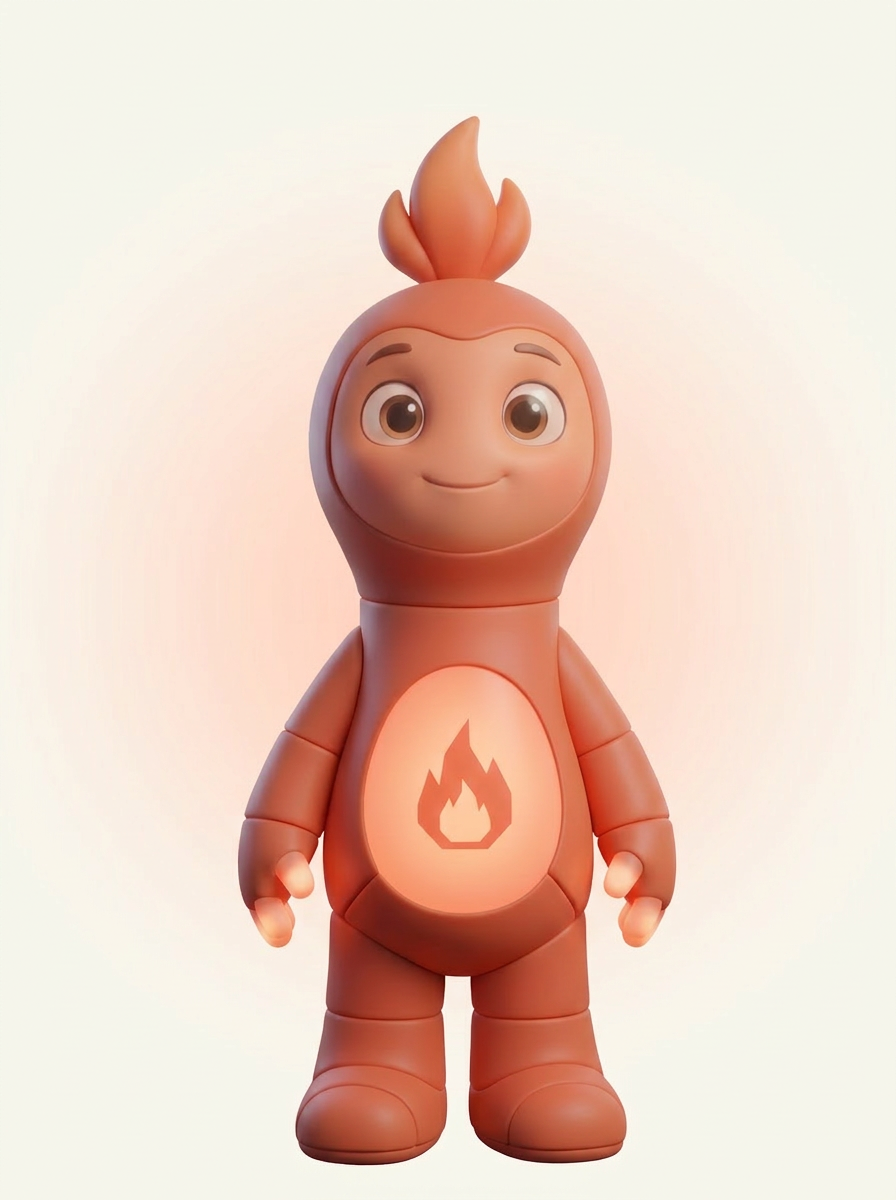
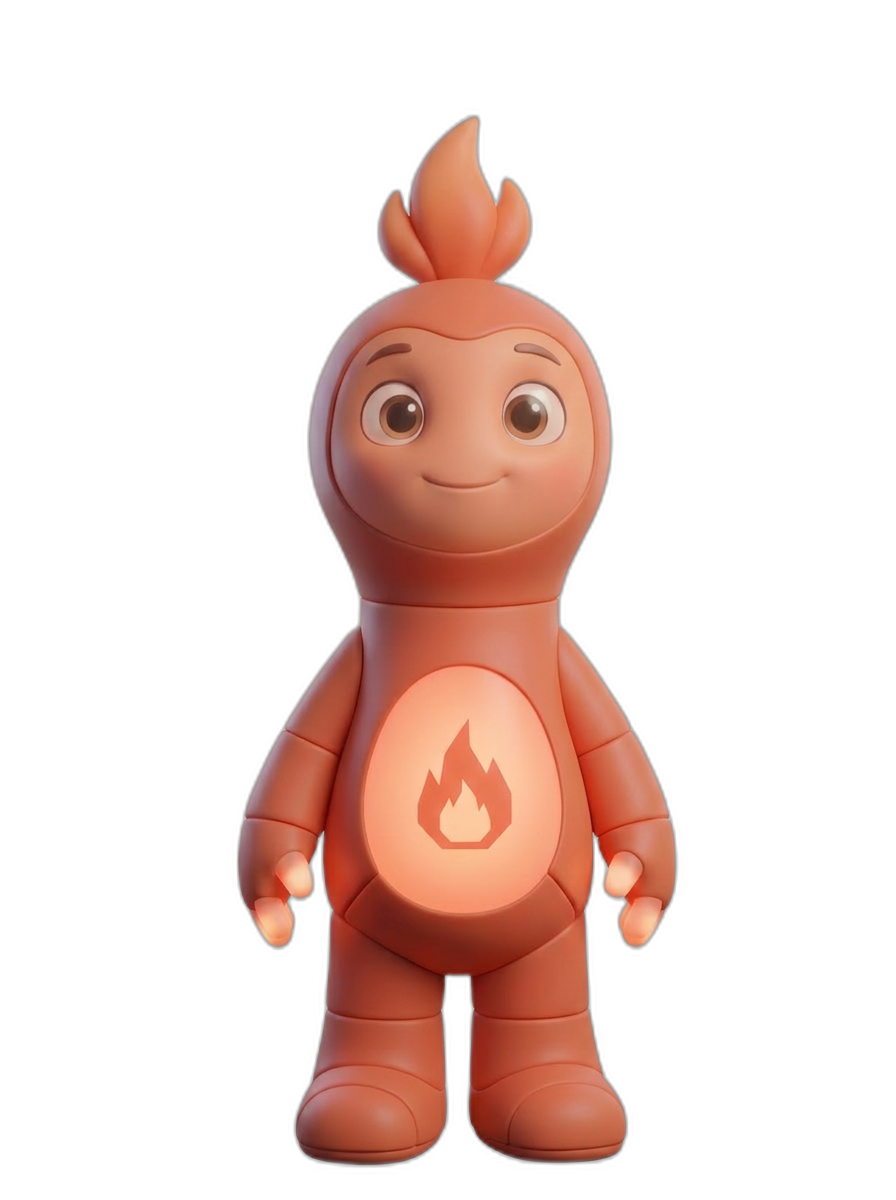
Polish landing page: equal cards, clean characters, scroll reset
- Force equal height on the 4 World section cards using flex/h-full
  so they stay aligned regardless of tagline length
- Remove baked-in backgrounds from all character images (luno, lumi,
  lolo, loti and their home/stories/journeys/family variants)
  using rembg, with manual remove.bg fallbacks for lumi and loti
  where the AI couldn't separate same-color foregrounds
- Add ScrollToTop component that scrolls window to top on every
  route change, fixing landing page navigation preserving old scroll
  position when jumping between pages

diff --git a/src/components/landing/home/WorldSection.tsx b/src/components/landing/home/WorldSection.tsx
@@ -58,12 +58,12 @@ export default function WorldSection() {
           </div>
         </AnimatedSection>
 
-        <div className="grid grid-cols-1 sm:grid-cols-2 lg:grid-cols-4 gap-6 mt-12">
+        <div className="grid grid-cols-1 sm:grid-cols-2 lg:grid-cols-4 gap-6 mt-12 items-stretch">
           {islands.map((island, i) => (
-            <AnimatedSection key={island.title} delay={i * 0.1}>
-              <Link to={island.link} className="block group">
-                <div className={`bg-card rounded-2xl overflow-hidden border border-border ${island.accent} border-t-[3px] shadow-warm hover:shadow-warm-lg transition-all duration-300 hover:-translate-y-1`}>
-                  <div className="aspect-[16/10] overflow-hidden">
+            <AnimatedSection key={island.title} delay={i * 0.1} className="h-full">
+              <Link to={island.link} className="block group h-full">
+                <div className={`bg-card rounded-2xl overflow-hidden border border-border ${island.accent} border-t-[3px] shadow-warm hover:shadow-warm-lg transition-all duration-300 hover:-translate-y-1 h-full flex flex-col`}>
+                  <div className="aspect-[16/10] overflow-hidden flex-shrink-0">
                     <img
                       src={island.img}
                       alt={island.title}
@@ -71,7 +71,7 @@ export default function WorldSection() {
                       loading="lazy"
                     />
                   </div>
-                  <div className="p-5">
+                  <div className="p-5 flex-1 flex flex-col">
                     <h3 className="font-heading text-lg text-foreground mb-1">{island.title}</h3>
                     <p className="font-body text-sm font-medium text-muted-foreground mb-1">{island.subtitle}</p>
                     <p className="font-body text-sm text-muted-foreground leading-relaxed">{island.tagline}</p>

diff --git a/src/App.tsx b/src/App.tsx
@@ -34,6 +34,7 @@ import { NotFoundPage } from '@/pages/NotFound';
 
 // Landing pages (lazy-loaded)
 import LandingLayout from '@/components/landing/LandingLayout';
+import ScrollToTop from '@/components/landing/ScrollToTop';
 const LandingHomePage = lazy(() => import('@/pages/landing/HomePage'));
 const LandingFeaturesPage = lazy(() => import('@/pages/landing/FeaturesPage'));
 const LandingForParentsPage = lazy(() => import('@/pages/landing/ForParentsPage'));
@@ -98,6 +99,7 @@ export default function App() {
         <ChildProvider>
           <ChatProvider>
             <BrowserRouter>
+              <ScrollToTop />
               <Routes>
                 {/* Landing site pages */}
                 <Route

diff --git a/src/components/landing/ScrollToTop.tsx b/src/components/landing/ScrollToTop.tsx
@@ -1,0 +1,17 @@
+/**
+ * ScrollToTop — scrolls window to top on route change.
+ * Mount once inside BrowserRouter so every navigation triggers a reset.
+ */
+
+import { useEffect } from 'react';
+import { useLocation } from 'react-router-dom';
+
+export default function ScrollToTop() {
+  const { pathname } = useLocation();
+
+  useEffect(() => {
+    window.scrollTo({ top: 0, left: 0, behavior: 'instant' });
+  }, [pathname]);
+
+  return null;
+}
